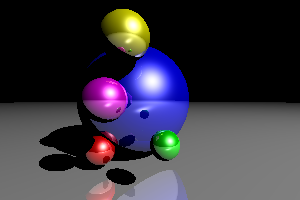
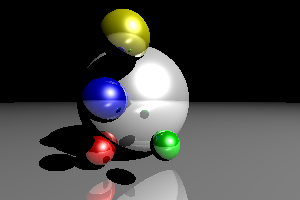
Some Changes?

diff --git a/main.py b/main.py
@@ -23,8 +23,10 @@ class Sphere(Object):
 def normalize(vector):
     return vector / np.linalg.norm(vector)
 
+
 def reflected(vector, axis):
     return vector - 2 * np.dot(vector, axis) * axis
+
 
 def sphere_intersect(center, radius, ray_origin, ray_direction):
     b = 2 * np.dot(ray_direction, ray_origin - center)
@@ -36,6 +38,7 @@ def sphere_intersect(center, radius, ray_origin, ray_direction):
         if t1 > 0 and t2 > 0:
             return min(t1, t2)
     return None
+
 
 def nearest_intersected_object(objects, ray_origin, ray_direction):
     distances = [sphere_intersect(obj.center, obj.radius, ray_origin, ray_direction) for obj in objects]
@@ -51,7 +54,7 @@ def nearest_intersected_object(objects, ray_origin, ray_direction):
 width = 300
 height = 200
 
-max_depth = 3
+max_depth = 5
 
 camera = np.array([0, 0, 1])
 ratio = float(width) / height
@@ -60,12 +63,12 @@ screen = (-1, 1 / ratio, 1, -1 / ratio) # left, top, right, bottom
 
 
 objects = [
-    Sphere([-.2, 0, -1], 0.7, [0, 0, 0.1], [0, 0, 0.7], [1, 1, 1], 100, 0.5),
-    Sphere([0.1, -0.3, 0],  0.1, [0, 0.1, 0], [0, 0.7, 0], [1, 1, 1], 100, 0.5),
-    Sphere([-0.3, 0, 0], 0.15, [0.1, 0, 0.1], [0.7, 0, 0.7], [1, 1, 1], 100, 0.5),
-    Sphere([-.5, -.5, -.5], 0.15, [0.1, 0, 0], [0.7, 0, 0], [1, 1, 1], 100, 0.5),
-    Sphere([-.2, 0.5, -0.2], 0.2, [.1, .1, 0], [.7, .7, 0], [1, 1, 1], 100, 0.5),
-    Sphere([0, -9000, 0], 9000-0.7, [0.1, 0.1, 0.1], [0.6, 0.6, 0.6], [1, 1, 1], 100, 0.5) # Large Screen
+    Sphere([-.2, 0, -1], 0.7, [0.1, 0.1, 0.1], [0.7, 0.7, 0.7], [1, 1, 1], 100, 0.5), # Silver
+    Sphere([0.1, -0.3, 0],  0.1, [0, 0.1, 0], [0, 0.7, 0], [1, 1, 1], 100, 0.5), # Green
+    Sphere([-0.3, 0, 0], 0.15, [0., 0, 0.1], [0., 0, 0.7], [1, 1, 1], 100, 0.5), # Blue
+    Sphere([-.5, -.5, -.5], 0.15, [0.1, 0, 0], [0.7, 0, 0], [1, 1, 1], 100, 0.5), # Red
+    Sphere([-.2, 0.5, -0.2], 0.2, [.1, .1, 0], [.7, .7, 0], [1, 1, 1], 100, 0.5), # Yellow
+    Sphere([0, -9000, 0], 9000-0.7, [0.1, 0.1, 0.1], [0.6, 0.6, 0.6], [1, 1, 1], 100, 0.5) # Large Screen at bottom
 ]
 
 light = Object([5, 5, 5], [1, 1, 1], [1, 1, 1], [1, 1, 1])
@@ -82,7 +85,7 @@ for i, y in enumerate(np.linspace(screen[1], screen[3], height)):
         color = np.zeros((3))
         reflection = 1
 
-        for k in range(max_depth):
+        for k in range(max_depth): # tracing reflections up to max_depth times
             # check for intersections
             nearest_object, min_distance = nearest_intersected_object(objects, origin, direction)
             if nearest_object is None:
